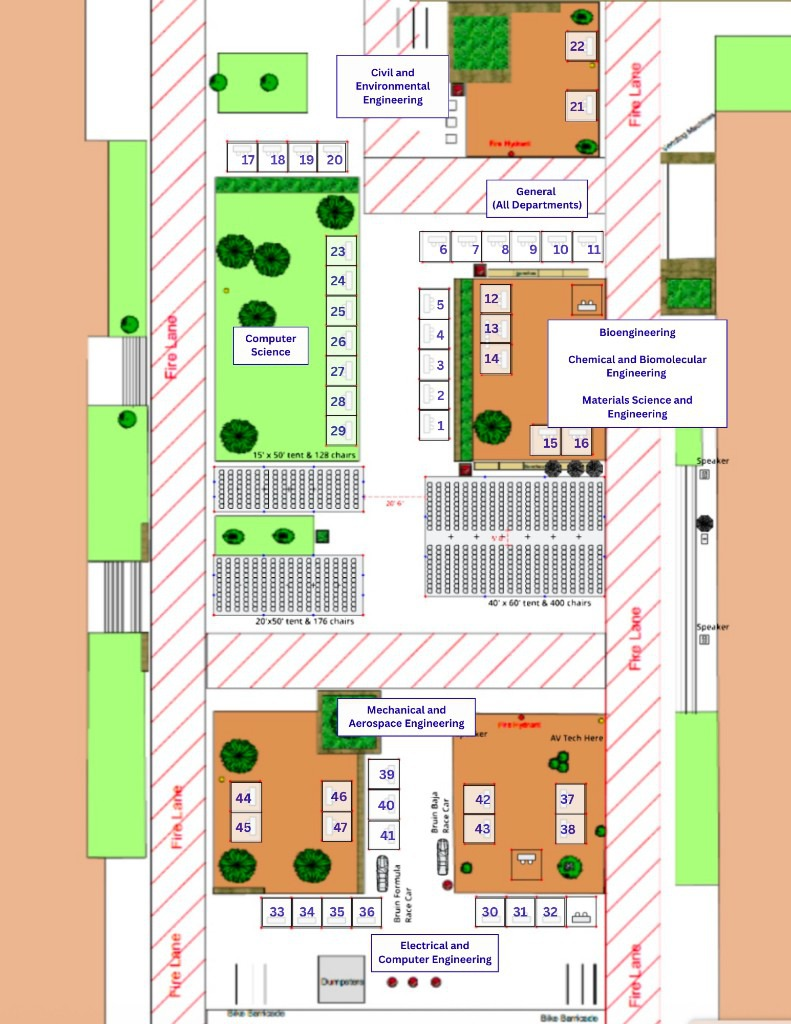
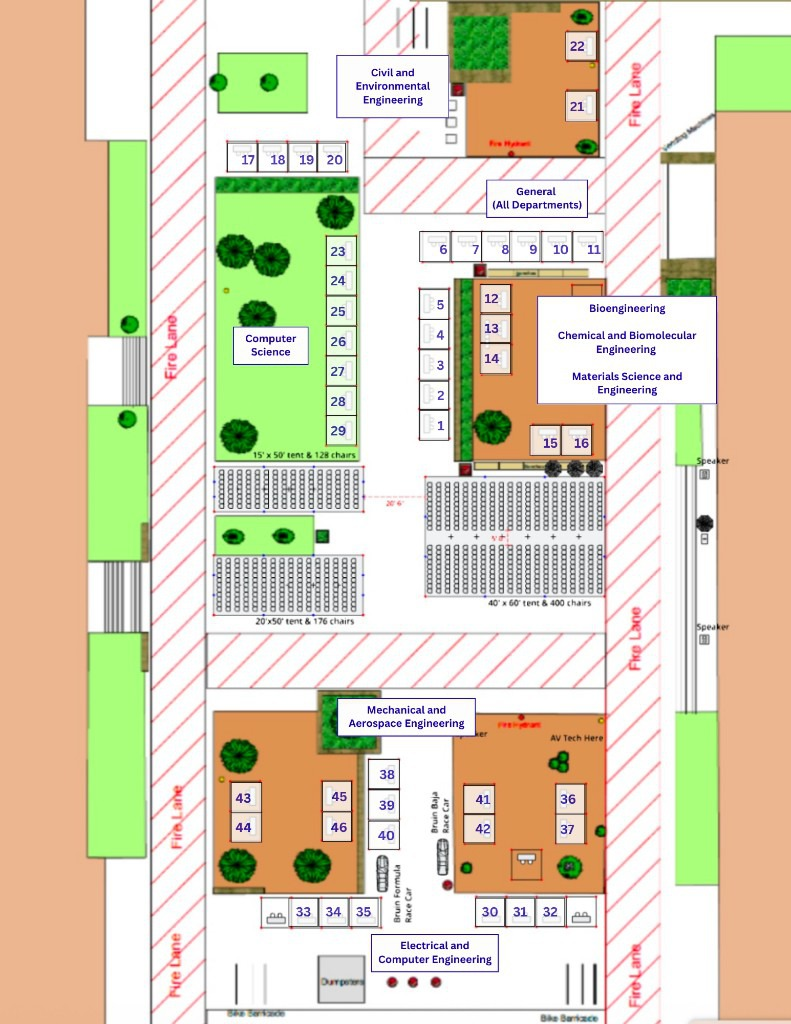
Update the expo floor plan and drop AI for Safety.
Use the revised Court of Sciences layout and shift later table numbers so the map matches the current assignments.

Changed region(s): [[0.6675, 0.2812, 0.9406, 0.4375], [0.3338, 0.875, 0.4855, 0.9062], [0.4248, 0.7812, 0.4551, 0.8125]]

diff --git a/js/main.js b/js/main.js
@@ -200,21 +200,20 @@ function drawMap(mount, orgs, deptColor) {
         14: [61.15, 36.15],
         15: [68.55, 42.85],
         16: [73.35, 42.85],
-        44: [31.35, 77.05],
-        45: [31.35, 81.05],
-        46: [42.05, 77.05],
-        47: [42.05, 81.05],
-        39: [48.75, 74.85],
-        40: [48.75, 78.15],
-        41: [48.75, 81.45],
-        42: [59.85, 77.15],
-        43: [59.85, 81.15],
-        37: [71.15, 77.05],
-        38: [71.15, 81.05],
-        33: [34.15, 89.25],
-        34: [38.65, 89.25],
-        35: [43.15, 89.25],
-        36: [47.65, 89.25],
+        43: [31.35, 77.05],
+        44: [31.35, 81.05],
+        45: [42.05, 77.05],
+        46: [42.05, 81.05],
+        38: [48.75, 74.85],
+        39: [48.75, 78.15],
+        40: [48.75, 81.45],
+        41: [59.85, 77.15],
+        42: [59.85, 81.15],
+        36: [71.15, 77.05],
+        37: [71.15, 81.05],
+        33: [34.5, 89.25],
+        34: [39.2, 89.25],
+        35: [43.95, 89.25],
         30: [59.65, 89.25],
         31: [64.15, 89.25],
         32: [68.65, 89.25]

diff --git a/scripts/update_orgs.py b/scripts/update_orgs.py
@@ -69,20 +69,19 @@ ASSIGNMENTS = [
     ("ieee", "31", [31], "ece", "Electrical and Computer Engineering"),
     ("ieee_watt", "32", [32], "ece", "Electrical and Computer Engineering"),
     ("barc", "33", [33], "ece", "Electrical and Computer Engineering"),
-    ("aifs", "34", [34], "ece", "Electrical and Computer Engineering"),
-    ("qcsa", "35", [35], "ece", "Electrical and Computer Engineering"),
-    ("3d4e", "36", [36], "ece", "Electrical and Computer Engineering"),
-    ("bes", "37", [37], "mae", "Mechanical and Aerospace Engineering"),
-    ("beam", "38", [38], "mae", "Mechanical and Aerospace Engineering"),
-    ("asme", "39", [39], "mae", "Mechanical and Aerospace Engineering"),
-    ("bruinspace", "40", [40], "mae", "Mechanical and Aerospace Engineering"),
-    ("bfr", "41", [41], "mae", "Mechanical and Aerospace Engineering"),
-    ("smv", "42", [42], "mae", "Mechanical and Aerospace Engineering"),
-    ("baja_sae", "43", [43], "mae", "Mechanical and Aerospace Engineering"),
-    ("uas", "44", [44], "mae", "Mechanical and Aerospace Engineering"),
-    ("dbf", "45", [45], "mae", "Mechanical and Aerospace Engineering"),
-    ("rocket_project", "46", [46], "mae", "Mechanical and Aerospace Engineering"),
-    ("aiaa", "47", [47], "mae", "Mechanical and Aerospace Engineering"),
+    ("qcsa", "34", [34], "ece", "Electrical and Computer Engineering"),
+    ("3d4e", "35", [35], "ece", "Electrical and Computer Engineering"),
+    ("bes", "36", [36], "mae", "Mechanical and Aerospace Engineering"),
+    ("beam", "37", [37], "mae", "Mechanical and Aerospace Engineering"),
+    ("asme", "38", [38], "mae", "Mechanical and Aerospace Engineering"),
+    ("bruinspace", "39", [39], "mae", "Mechanical and Aerospace Engineering"),
+    ("bfr", "40", [40], "mae", "Mechanical and Aerospace Engineering"),
+    ("smv", "41", [41], "mae", "Mechanical and Aerospace Engineering"),
+    ("baja_sae", "42", [42], "mae", "Mechanical and Aerospace Engineering"),
+    ("uas", "43", [43], "mae", "Mechanical and Aerospace Engineering"),
+    ("dbf", "44", [44], "mae", "Mechanical and Aerospace Engineering"),
+    ("rocket_project", "45", [45], "mae", "Mechanical and Aerospace Engineering"),
+    ("aiaa", "46", [46], "mae", "Mechanical and Aerospace Engineering"),
 ]
 
 NEW_ORGS = {
@@ -187,14 +186,6 @@ NEW_ORGS = {
         full_name="Bruin Amateur Radio Club",
         short_name="BARC",
         description="The Bruin Amateur Radio Club is UCLA's amateur radio organization. Learn about radio and communications, get licensed, and get involved in technical projects and emergency communications.",
-        website="",
-        instagram="",
-    ),
-    "aifs": base_org(
-        id="aifs",
-        full_name="AI for Safety",
-        short_name="",
-        description="AI for Safety is a student organization exploring safe, reliable, and responsible AI. Come by to learn about research, projects, and how to get involved.",
         website="",
         instagram="",
     ),
